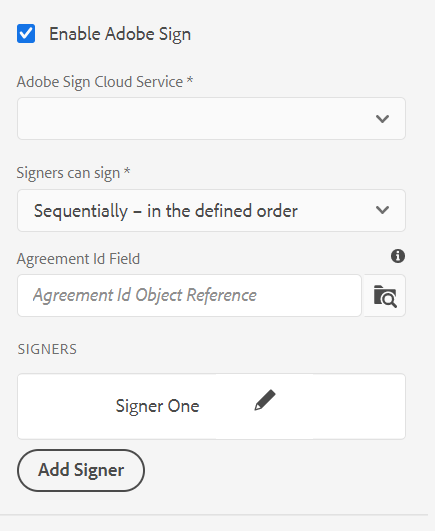
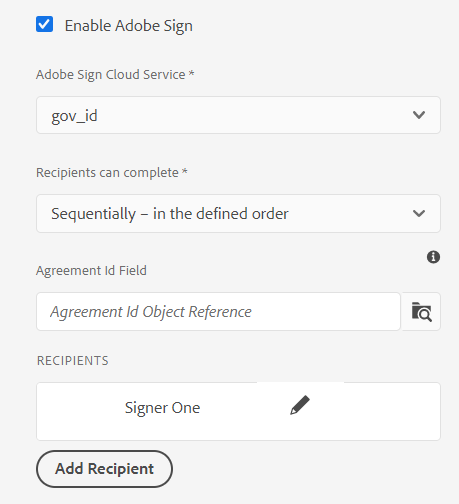
Using Adobe Sign in an Adaptive Form
Updated Screenshot

diff --git a/help/working-with-adobe-sign.md b/help/working-with-adobe-sign.md
@@ -22,10 +22,11 @@ In a typical [!DNL Adobe Sign] and Adaptive Forms scenario, a user fills an Adap
 
 * Single and multiple-user signing workflows
 * Sequential and simultaneous signing workflows
-<!-- * In-form and out-of-form signing experiences -->
 * Signing forms as an anonymous or logged-in user
 * Dynamic signing processes (integration with [!DNL AEM Forms] Workflow)
 * Authentication through a knowledge base, phone, social profiles, and Government ID
+* Assigning roles to each recipient of an agreement
+<!-- * In-form and out-of-form signing experiences -->
 
 ## Prerequisites {#prerequisites}
 
@@ -40,7 +41,7 @@ To configure [!DNL Adobe Sign] for an Adaptive Form:
 
 1. [Enable [!DNL Adobe Sign] for an Adaptive Form](#enableadobsignforanadaptiveform)
 1. [Add [!DNL Adobe Sign] fields to an Adaptive Form](#addadobesignfieldstoanadaptiveform)
-1. [Select [!DNL Adobe Sign] Cloud Service for an Adaptive Form](#select-adobe-sign-cloud-service-and signing-order)
+1. [Select [!DNL Adobe Sign] Cloud Service for an Adaptive Form](#select-adobe-sign-cloud-service-and-signing-order)
 
 1. [Add [!DNL Adobe Sign] Signers to an Adaptive Form](#addsignerstoanadaptiveform)
 1. [Select Submit Action for an Adaptive Form](#selectsubmitactionforanadaptiveform)
@@ -169,7 +170,7 @@ You can have only one signer or multiple signers for an Adaptive Form. When you 
 1. In the Content browser, tap **[!UICONTROL Form Container]**, and tap the **[!UICONTROL Configure]** ![configure](assets/Smock_Wrench_18_N.svg) icon. It opens properties browser with Adaptive Form container properties.
 1. In the properties browser, expand the **[!UICONTROL Electronic Signature]** accordion, and select the **[!UICONTROL Enable Adobe Sign]** option. It enables [!DNL Adobe Sign] for an Adaptive Form.
 1. Tap **[!UICONTROL Add Signer]** under **[!UICONTROL Signer Configuration]**. It adds a signer to the Adaptive Form. You can add multiple [!DNL Adobe Sign] signers to an Adaptive Form.
-   ![phone-details](assets/phone-details.png)
+   ![phone-details](assets/recipient-settings.png)
 
 1. Click the **[!UICONTROL Edit]** ![Edit](assets/Smock_Edit_18_N.svg) icon to specify the following information about the signer:
 
